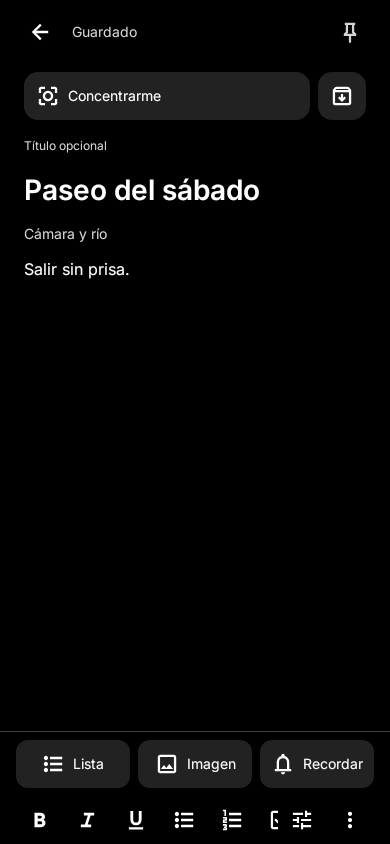
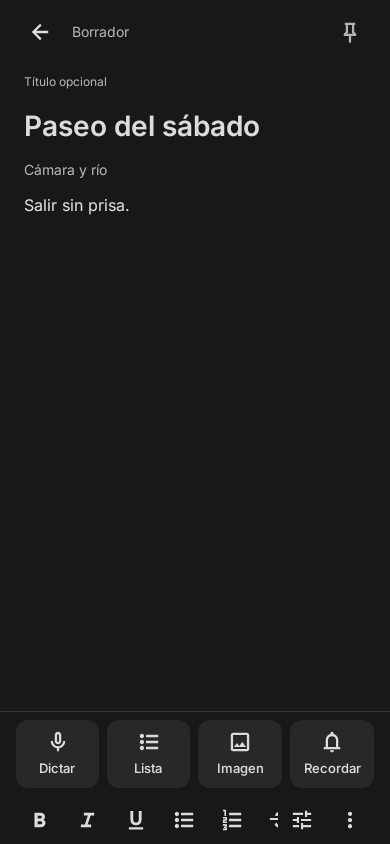
docs: update navigation editor and contrast guidance and previews

diff --git a/docs/guia-de-uso.md b/docs/guia-de-uso.md
@@ -13,12 +13,12 @@ Clean Mind permite guardar ideas y apuntes personales en Android. No necesitas u
 | Editor | Título, subtítulo opcional, cuerpo de la nota, estado de guardado y acciones. |
 | Ajustes | Selección de apariencia e información sobre almacenamiento y recordatorios. |
 
-El botón flotante **+** despliega seis acciones en dos arcos radiales: Inicio, Notas, Recordar, Buscar, Nueva nota y Nuevo aviso (nuevo recordatorio). El botón gira a **×** para cerrarlas; Volver también cierra el despliegue sin cambiar de pantalla. Un doble toque en la lupa abre Buscar con el campo enfocado para escribir. La cabecera se oculta al bajar y reaparece al llegar al inicio; el engranaje abre Ajustes.
+La barra inferior fija muestra **Inicio, Notas, Nueva nota, Recordar y Buscar**. Nueva nota abre el editor directamente; Buscar enfoca el campo de consulta. La barra se oculta mientras se escribe una búsqueda y vuelve al cerrar el teclado. Durante una selección múltiple, sus acciones quedan desactivadas hasta cancelar o completar la selección. La cabecera se oculta al bajar y reaparece al llegar al inicio; el cambio de vista está junto al engranaje de Ajustes. Una pluma estilográfica acompaña al nombre Clean Mind.
 
 ## Crear una nota
 
-1. Pulsa el botón flotante **+**.
-2. Elige **Nueva nota**.
+1. Pulsa **Nueva nota** en el centro de la barra inferior.
+2. Se abre directamente el editor.
 3. Escribe un título opcional; si lo dejas vacío, la app utiliza una primera línea legible al guardar.
 4. Añade un subtítulo opcional y el texto de la nota.
 5. Comprueba el estado de guardado en la cabecera o pulsa la flecha de volver, que guarda y cierra el editor.
@@ -55,7 +55,7 @@ La elección de vista pertenece al estado de cada pestaña. No hay un ajuste glo
 
 ## Crear un recordatorio
 
-1. Pulsa **+ → Nuevo aviso**.
+1. Abre **Recordar** y pulsa el **+** de la cabecera de la colección (**Nuevo recordatorio**).
 2. Escribe **¿Qué quieres recordar?**.
 3. Activa **Avisarme** y elige la fecha y la hora, o desactívalo para guardar un pendiente sin notificación.
 4. Añade un detalle opcional y pulsa **Guardar recordatorio**.
@@ -73,7 +73,7 @@ Pulsa la notificación para abrir su nota o **Posponer** (duración configurable
 
 ## Organizar en carpetas
 
-En **Notas** las carpetas aparecen en cuadrícula. El icono de carpeta con **+** abre **Gestionar carpetas**, donde puedes crearlas o renombrarlas. Selecciona una para consultar sus notas; el botón **+ → Nueva nota** utiliza esa carpeta. La pulsación larga de una nota ofrece **Mover a carpeta**. **Sin carpeta** reúne las notas sin asignación. Eliminar una carpeta conserva sus notas. Notas no muestra una barra de búsqueda; utiliza la pestaña **Buscar**. Estas carpetas son independientes del directorio de copias TXT de Ajustes. Consulta [Carpetas](carpetas.md).
+En **Notas** las carpetas aparecen en cuadrícula. El icono de carpeta con **+** abre **Gestionar carpetas**, donde puedes crearlas o renombrarlas. Selecciona una para consultar sus notas; el botón **Nueva nota** de la barra inferior utiliza esa carpeta. La pulsación larga de una nota ofrece **Mover a carpeta**. **Sin carpeta** reúne las notas sin asignación. Eliminar una carpeta conserva sus notas. Notas no muestra una barra de búsqueda; utiliza la pestaña **Buscar**. Estas carpetas son independientes del directorio de copias TXT de Ajustes. Consulta [Carpetas](carpetas.md).
 
 ## Buscar
 
@@ -127,7 +127,7 @@ El historial de pruebas físicas está en [Pruebas](pruebas.md). Consulta la rev
 
 ## Formato y fotografías
 
-La fila de formato permanece visible sobre el teclado. Mientras escribes se ocultan los tres accesos grandes de inserción; **Más opciones** conserva Añadir casilla, Imágenes y archivos y Recordatorio. Abrir el panel completo retira el teclado para mostrar sus controles sin perder la selección. Muestra negrita, cursiva, subrayado y listas; deslízala horizontalmente para acceder a las demás herramientas. **Más formato y espaciado** abre un único panel con tamaños H1–H6 y Normal, estilos, listas, alineación, sangría e interlineado y espacios. Los ajustes de espaciado afectan a toda la nota. Se mantiene el editor visual normal, con selección de texto y sin escribir sintaxis Markdown.
+La fila de formato permanece visible sobre el teclado. La fila **Dictar, Lista, Imagen y Recordar** conserva sus cuatro acciones mientras escribes, con iconos compactos sobre el teclado. Con texto grande se distribuye en dos filas para mantener las etiquetas completas. Abrir el panel completo retira el teclado para mostrar sus controles sin perder la selección. Muestra negrita, cursiva, subrayado y listas; deslízala horizontalmente para acceder a las demás herramientas. **Más formato y espaciado** abre un único panel con tamaños H1–H6 y Normal, estilos, listas, alineación, sangría e interlineado y espacios. Los ajustes de espaciado afectan a toda la nota. Se mantiene el editor visual normal, con selección de texto y sin escribir sintaxis Markdown.
 
 Cada casilla de la lista tiene una **×** a la derecha para eliminarla, esté vacía, escrita o marcada. El aviso **Casilla eliminada · Deshacer** permite recuperarla con su contenido, estado y posición. La eliminación no cambia el cuerpo ni el resto de la lista.
 
@@ -144,17 +144,17 @@ El estado de guardado se consulta en la cabecera; los errores también aparecen 
 
 Las notas que se hubieran guardado en Markdown se abren en el editor normal con texto y formato básico, sin mostrar código Markdown. Los destinos de enlaces se conservan visibles en el texto. Abrirlas no escribe cambios; una edición posterior guarda el documento normal, conservando adjuntos, casillas y metadatos.
 
-## Fijado, archivo y concentración
+## Fijado y listas
 
-La pulsación larga abre Compartir, Fijar a mano, Archivar y Eliminar. Las notas fijadas permanecen en su día de la agenda y también se encuentran con el filtro **Fijadas**. El filtro **Archivadas** permite abrir y restaurar notas archivadas. El aviso de archivo ofrece **Deshacer** después de confirmarse el cambio.
+La pulsación larga abre Seleccionar, Mover a carpeta, Compartir, Fijar a mano y Eliminar. Las notas fijadas permanecen en su día de la agenda y también se encuentran con el filtro **Fijadas**. Se retiran la concentración y la opción de archivar, incluido el filtro Archivadas. Las notas archivadas por versiones anteriores aparecen en las colecciones normales sin reescribir sus datos.
 
-En el editor, **Concentrarme** oculta las herramientas. La acción de cerrar concentración vuelve al editor sin perder el borrador. **Lista** añade una casilla editable; se conserva la continuación de viñetas/números de las listas de texto.
+**Lista** añade una casilla editable con su propia **×** para quitarla. Las casillas se gestionan desde esta acción y no desde el menú de formato. Se conservan viñetas y numeración en formato, incluida su continuación con Intro.
 
 Apariencia y carpeta de las notas vuelven a estar visibles directamente en Ajustes, sin desplegar una sección adicional.
 
 ## Dictado, archivos y enlaces
 
-El micrófono **Dictar por voz** de la cabecera abre el reconocimiento del sistema. El texto reconocido sustituye la selección del cuerpo o se inserta en el cursor, con espacios cuando hacen falta y disponible en Deshacer. Cancelar no modifica la nota. Requiere una aplicación compatible de reconocimiento instalada; su disponibilidad y uso de red dependen del servicio del dispositivo.
+El micrófono **Dictar** de la fila inferior abre el reconocimiento del sistema. El texto reconocido sustituye la selección del cuerpo o se inserta en el cursor, con espacios cuando hacen falta y disponible en Deshacer. Cancelar no modifica la nota. Requiere una aplicación compatible de reconocimiento instalada; su disponibilidad y uso de red dependen del servicio del dispositivo.
 
 **Imagen → Adjuntar archivo**, o **Más opciones → Imágenes y archivos**, abre el selector de documentos de Android. Se copian los archivos a almacenamiento privado, con un máximo de 25 MB por archivo. La nota muestra el nombre y tamaño; toca la fila para abrirlo con una app compatible o la **×** para quitarlo. Los nombres se incluyen en búsqueda y exportaciones TXT/PDF; esos formatos no empaquetan los archivos binarios. Quitar un adjunto no modifica su original.
 

diff --git a/docs/pruebas.md b/docs/pruebas.md
@@ -35,7 +35,7 @@ Los filtros mostrados corresponden a las clases presentes en el repositorio.
 | Clase | Casos | Comportamiento comprobado |
 | --- | --- | --- |
 | `EditNoteViewModelTest` | 14 | Autoguardados sobre la misma fila, salida inmediata, escritura lenta, fallos y reintento, guardado explícito de recordatorios, salida repetida, reversión del texto, título vacío, borrador restaurado, texto literal `Remember` y fallo de carga; creación de una nota en la carpeta seleccionada y nota de solo archivo, incluida retirada de su último adjunto. |
-| `NotesViewModelTest` | 10 | Filtros y búsqueda, reintento de carga, error de eliminación, detención de observación sin suscriptores y restauración de consulta/pestaña/carpeta, creación de carpetas, fallo/reintento de movimientos y borrado múltiple con error, reintento y bloqueo de envíos duplicados. |
+| `NotesViewModelTest` | 11 | Filtros y búsqueda, reintento de carga, error de eliminación, detención de observación sin suscriptores y restauración de consulta/pestaña/carpeta, creación de carpetas, fallo/reintento de movimientos y borrado múltiple con error, reintento y bloqueo de envíos duplicados; acceso a notas antiguas archivadas sin reescritura. |
 | `SettingsViewModelTest` | 1 | Conservación del tema persistido cuando falla una escritura y recuperación al reintentar. |
 | `NoteStorageTest` | 6 | Migración 2→4 con SQLite y operaciones de repositorio con IDs estables y orden de consulta; rollback entre bloques de borrado y cancelación de avisos seleccionados. |
 | `FolderStorageTest` | 3 | Migración 3→4 conservando todos los campos; creación/renombrado/borrado, movimientos y guardados obsoletos, duplicados con acentos, carpetas desaparecidas y separación de recordatorios. |
@@ -47,12 +47,12 @@ Los filtros mostrados corresponden a las clases presentes en el repositorio.
 | `MarkdownCompatibilityTest` | 5 | Documentos normales sin cambios, lectura de documentos Markdown como texto con formato conservando metadatos y destinos de enlaces, estilos/tablas/tareas anteriores, HTML literal y texto legible para buscar/compartir. |
 | `VoiceDictationTest` | 2 | Intent de reconocimiento, resultados cancelados/vacíos, inserción en selección y deshacer conservando adjuntos. |
 | `AttachmentsAndLinksTest` | 3 | Serialización, historial, copia privada independiente y validación de rutas, extracción de URLs y metadatos HTML. |
-| `ThemePaletteTest` | 2 | Contraste de acentos extremos en ambos modos y roles monocromos del tema Gris. |
+| `ThemePaletteTest` | 3 | Contraste de acentos extremos en ambos modos y roles monocromos del tema Gris y legibilidad de las paletas suavizadas. |
 | `ExampleUnitTest` | 1 | Prueba aritmética de ejemplo del proyecto; no valida funcionalidad de Clean Mind. |
 | `ReminderExportTest` | 5 | Repetición y serialización, programación/recuperación/cancelación de alarmas, TXT UTF-8 y paginación visual de exportación. |
-| `DesignUiTest` | 23 | Capturas locales, privacidad de previews, compartir con pulsación larga, búsqueda/cuadrícula, concentración, completado, ajustes, selección de fecha/hora y formulario independiente con confirmación al descartar y filtrado/movimiento de notas entre carpetas y exclusión de Volver en destinos ocultos, carpetas en cuadrícula y ausencia de búsqueda en Notas y botones del editor sin palabras partidas ni truncadas a 320 dp con fuente 1.35; ocultación al descender, permanencia oculta al invertir el scroll a mitad de la lista y reapertura al llegar al inicio, conservando los límites del contenido fuera de las barras; aplicación de una paleta y borrado múltiple confirmado en Home y recordatorios sin completar avisos. |
+| `DesignUiTest` | 23 | Capturas locales, privacidad de previews, compartir con pulsación larga, búsqueda/cuadrícula, herramientas inferiores del editor, completado, ajustes, selección de fecha/hora y formulario independiente con confirmación al descartar y filtrado/movimiento de notas entre carpetas y exclusión de Volver en destinos ocultos, carpetas en cuadrícula y ausencia de búsqueda en Notas y botones del editor sin palabras partidas ni truncadas a 320 dp con fuente 1.35; ocultación al descender, permanencia oculta al invertir el scroll a mitad de la lista y reapertura al llegar al inicio, conservando los límites del contenido fuera de las barras; aplicación de una paleta y borrado múltiple confirmado en Home y recordatorios sin completar avisos; navegación inferior de cinco acciones, creación contextual de avisos y ubicación del dictado, manteniendo Lista y retirando las casillas del formato. |
 
-Total actual: **96 pruebas locales**, de las cuales una es el ejemplo aritmético original. Esta cifra describe la suite actual y debe revisarse al añadir o retirar casos; no es un porcentaje de cobertura de código.
+Total actual: **98 pruebas locales**, de las cuales una es el ejemplo aritmético original. Esta cifra describe la suite actual y debe revisarse al añadir o retirar casos; no es un porcentaje de cobertura de código.
 
 Las pruebas de ViewModel usan `kotlinx-coroutines-test` para controlar la ejecución y el tiempo virtual. `FakeNoteRepository` permite simular lentitud, errores y cambios observables.
 
@@ -233,3 +233,15 @@ En el realme RMX3370, API 33, conectado por USB, se verificaron:
 El micrófono del editor está accesible y el dispositivo resuelve el Intent de reconocimiento de voz. Los resultados, cancelación e inserción se comprobaron en pruebas locales; no se grabó audio ambiente en esta revisión.
 
 Se eliminaron las notas, recordatorios, archivos privados y medios temporales de prueba y el APK instrumentado. La comparación final conserva idénticos todos los campos de las **12 notas originales y la carpeta**, incluida To Dos. El teléfono queda en Inicio y no aparecen crashes del paquete en el buffer conservado. Las capturas y copias privadas del dispositivo no se incorporan al repositorio.
+
+
+## Barras y editor simplificados · 28 de noviembre de 2026
+
+La revisión sustituye el FAB radial por navegación inferior Material 3 Expressive, retira la búsqueda de Home y mueve el cambio de vista a la cabecera. El dictado pasa a la fila inferior del editor; se conservan las casillas de Lista y se retiran del menú de formato. No quedan acciones de concentración ni archivo.
+
+Las **98 pruebas locales**, compilaciones debug/release y lint de ambas variantes finalizaron correctamente. La regresión de navegación comprueba objetivos sin solapamientos a 320 dp y escala 1.35; la de scroll vuelve a comprobar los límites superior e inferior del viewport. El caso de compatibilidad conserva accesibles las notas archivadas antiguas sin modificar sus datos. La paleta suavizada mantiene el contraste de texto/acciones comprobado por la suite.
+
+Los accesos y la referencia oficial están en [Barras, Home y editor](barras-y-editor.md).
+
+
+En el Xiaomi Redmi Note 8 Pro, API 36, conectado en esta revisión, se instalaron los cambios y se verificaron navegación, editor, listas, panel de formato, búsqueda, scroll, cambio de vista y ambos modos de apariencia. **Dos pruebas instrumentadas superadas**, incluida la del portapapeles nativo. Tras retirar la nota de prueba y su copia TXT, la comparación conserva idénticos los campos de las 9 notas y las 2 carpetas originales; DataStore y las preferencias de avisos coinciden con la copia inicial. El teléfono queda en Home y sin APK de pruebas, sin crashes del paquete en el buffer conservado. No se realizó una nueva prueba física en el realme en esta revisión.

diff --git a/docs/figma-ui.md b/docs/figma-ui.md
@@ -6,12 +6,11 @@ Referencia: [Clean Mind, archivo de Figma](https://www.figma.com/design/qokv6yTT
 
 ## Implementación
 
-- Inicio con búsqueda y cuadrícula adaptable, con opción de agenda vertical: separador horizontal y fecha completa, sin círculos ni etiquetas laterales y todas las notas creadas en ese día. No se limita a diez notas.
-- Cabecera opaca con ocultación al bajar y reapertura al llegar al inicio. Un FAB despliega la navegación y la creación desde el propio botón; doble toque en la lupa enfoca la búsqueda. Se mantienen colores y tipografía del estilo actual.
-- Filtros Todas, Fijadas, Con imágenes y Archivadas; vistas de lista y cuadrícula.
+- Inicio sin barra de búsqueda y con cuadrícula adaptable, con opción de agenda vertical: separador horizontal y fecha completa, sin círculos ni etiquetas laterales y todas las notas creadas en ese día. No se limita a diez notas.
+- Cabecera opaca con ocultación al bajar y reapertura al llegar al inicio. La navegación inferior ofrece Inicio, Notas, Nueva nota, Recordar y Buscar; Buscar enfoca el campo y el cambio de vista se encuentra junto a Ajustes. Se mantienen colores y tipografía del estilo actual.
+- Filtros Todas, Fijadas y Con imágenes; vistas de lista y cuadrícula.
 - Tarjetas de título, subtítulo y metadatos. Se mantiene la petición anterior de ocultar el cuerpo en Home: las vistas previas de la referencia reciben el subtítulo independiente, no una extracción del contenido.
-- Editor con guardado visible, fijado, archivo, deshacer archivo, captura de listas/imágenes y hoja de recordatorio. Las herramientas de formato, compartir y exportar permanecen disponibles.
-- Concentración sin herramientas inferiores; volver cierra este modo antes de abandonar la nota.
+- Editor con guardado visible, fijado, dictado en la fila inferior, captura de listas/imágenes y hoja de recordatorio. Las herramientas de formato, compartir y exportar permanecen disponibles.
 - Listas de casillas editables, con estado independiente por elemento, además de las listas de texto ya existentes.
 - Recordatorios con opciones rápidas Más tarde y Mañana, fecha/hora personalizadas, configuración avanzada, posposición y completado sin eliminar la nota. Una recurrencia completada avanza a la siguiente ocurrencia.
 - Ajustes anteriores recuperados: apariencia y carpeta de copias visibles directamente, información de la app y enlace a notificaciones de Android.
@@ -52,11 +51,11 @@ La familia Inter se distribuye localmente en cuatro pesos, generados a partir de
 
 `NoteDocument` añade `pinned`, `archived`, `reminderCompleted`, `checklist` y `createdAt` con valores predeterminados compatibles. No cambia el esquema Room. Las actualizaciones de metadatos se serializan y vuelven a leer la nota actual para no perder cambios concurrentes. Deshacer el cuerpo preserva estos metadatos. Las casillas se incluyen al buscar y exportar TXT/PDF.
 
-Una notificación puede pertenecer a una nota normal o a un recordatorio explícito. Al completar un aviso único se cancela su programación; al completar uno periódico se guarda y programa la siguiente ocurrencia. Las notas archivadas se consultan desde su filtro. Archivar no elimina adjuntos ni cancela automáticamente un aviso ya configurado.
+Una notificación puede pertenecer a una nota normal o a un recordatorio explícito. Al completar un aviso único se cancela su programación; al completar uno periódico se guarda y programa la siguiente ocurrencia. La revisión actual retira las opciones de archivo y concentración. Las notas archivadas antiguas aparecen en las colecciones normales, conservando el campo para compatibilidad.
 
 ## Verificación
 
-`DesignUiTest` utiliza Compose y Robolectric con gráficos nativos, sin teléfono ni emulador. Comprueba ocultación del cuerpo, pulsación larga, búsqueda/cuadrícula, entrada/salida de concentración, completar sin eliminar, ajustes y selección de fecha/hora. Las capturas se generan en `/tmp/cleanmind-ui-*.png`; una selección está en [ui-preview](ui-preview/).
+`DesignUiTest` utiliza Compose y Robolectric con gráficos nativos, sin teléfono ni emulador. Comprueba ocultación del cuerpo, pulsación larga, búsqueda/cuadrícula, navegación inferior y herramientas del editor, completar sin eliminar, ajustes y selección de fecha/hora. Las capturas se generan en `/tmp/cleanmind-ui-*.png`; una selección está en [ui-preview](ui-preview/).
 
 El recuento actualizado de la suite está en [Pruebas](pruebas.md). Además de los flujos comprobados anteriormente en Xiaomi, en el realme RMX3370 se verificaron cristal acelerado, carpetas, edición, imágenes de galería/cámara, portapapeles nativo, notificación en segundo plano y escritura SAF de TXT/PDF y copias automáticas. Consulta [Pruebas](pruebas.md) para el alcance y los casos pendientes.
 
@@ -91,3 +90,5 @@ Se restaura el editor normal y su formato visual. La compatibilidad de lectura c
 ## Formato conservado, casillas y FAB radial
 
 Se recuperan la fila visible de formato y el panel único, aplicados al editor normal. Cada casilla incorpora eliminación y deshacer. El FAB pasa a dos arcos radiales de tres acciones, con controles circulares y animación desde el centro del botón; conserva navegación, creación, cierre y doble toque de búsqueda. Estas adaptaciones son posteriores a la referencia Figma.
+
+La revisión actual de [barras y editor](barras-y-editor.md) sustituye el FAB radial y elimina archivo y concentración. Sus capturas sintéticas se han actualizado.

diff --git a/docs/barras-y-editor.md b/docs/barras-y-editor.md
@@ -1,0 +1,31 @@
+# Barras, Home y editor
+
+La revisión simplifica el cuaderno y utiliza la [navegación flexible de Material 3 Expressive](https://developer.android.com/develop/ui/compose/components/navigation-bar), disponible en la versión de Compose del proyecto.
+
+## Navegación y Home
+
+- Barra inferior acoplada al borde, con Inicio, Notas, Nueva nota, Recordar y Buscar. Los cuatro destinos muestran su selección; Nueva nota es una acción y abre el editor directamente.
+- Buscar enfoca el campo al entrar. La barra se oculta con el teclado de búsqueda y reaparece al cerrarlo.
+- Nuevo recordatorio queda en el **+** de la cabecera de Recordar, también cuando hay avisos en la colección.
+- La Home conserva fechas y agrupación por creación, sin barra de búsqueda. El cambio entre cuadrícula y agenda está junto a Ajustes. En Notas y Buscar, el mismo lugar cambia lista/cuadrícula.
+- Una pluma estilográfica Material Symbols acompaña a Clean Mind. Se conserva el peso 500 de los iconos.
+- La cabecera mantiene su comportamiento de ocultarse al descender y reaparecer al llegar al inicio. Scaffold reserva el espacio de ambas barras.
+
+## Editor
+
+La fila inferior ofrece **Dictar, Lista, Imagen y Recordar**. Con teclado usa iconos compactos y con texto grande puede distribuirse en dos filas para evitar recortes.
+
+Las casillas se crean con Lista, mantienen su edición, borrado y Deshacer. Se retiran los accesos de casilla en la fila de formato y en su panel; las viñetas, números, estilos y espaciado permanecen disponibles.
+
+Se eliminan concentración y archivo del editor y el menú de las notas. Las notas archivadas anteriormente se muestran en las colecciones habituales sin reescribir el documento. El campo antiguo se conserva por compatibilidad.
+
+## Contraste
+
+La paleta usa fondos carbón y blanco roto, texto gris y contornos más suaves. El acento sigue las preferencias de apariencia. Original oscuro utiliza `#181818`, superficies `#202020` y texto `#DCDCDC`; claro utiliza `#F0F0F0`, superficies `#F6F6F6` y texto `#3C3C3C`. El tema Gris continúa siendo monocromo. Se comprueba la legibilidad de texto y acciones en todas las paletas incorporadas, además de los acentos personalizados.
+
+## Verificación
+
+Compilaciones debug/release, lint de ambas variantes y **98 pruebas locales** correctas, sin fallos ni omisiones. La suite conserva las regresiones del editor, casillas, metadatos, almacenamiento y selección múltiple. Incluye navegación de cinco acciones a 320 dp con texto grande, ausencia de solapamientos, búsqueda con foco, colocación de cambio de vista junto a Ajustes y acceso a notas archivadas antiguas.
+
+
+La comprobación física se realizó en el Xiaomi Redmi Note 8 Pro conectado, Android API 36. Se verificaron los cinco accesos, creación contextual de aviso, cambio de vista en Home/Notas, ausencia de búsqueda en Home, dictado inferior con teclado, creación y persistencia de una casilla desde Lista, ausencia de casillas en formato y de archivo en el menú, búsqueda con foco y filtrado, navegación durante scroll y ambas apariencias. Las dos pruebas instrumentadas también pasaron. El modo previo Como el dispositivo se restauró. Se eliminó la nota temporal y su copia TXT y se compararon todos los campos de las 9 notas originales y las 2 carpetas. Las capturas del repositorio son sintéticas; las del dispositivo se mantienen fuera del repositorio.

diff --git a/docs/glass-ui.md b/docs/glass-ui.md
@@ -2,7 +2,7 @@
 
 La revisión del 25 de noviembre de 2026 adopta la alternativa Material 3 solicitada por el usuario. Sustituye el acabado de cristal anterior: se retiran Haze, la captura de fondos, los reflejos, el ruido y los degradados decorativos. Las superficies no se presentan como una reproducción del material de iOS.
 
-`AppSurfaces.kt` centraliza los contenedores tonales y las hojas inferiores. El tema oscuro utiliza un fondo uniforme `#000000`, texto principal blanco y texto secundario gris claro. El tema claro conserva sus superficies claras y texto oscuro. Los estados seleccionados mantienen el acento azul acero.
+`AppSurfaces.kt` centraliza los contenedores tonales y las hojas inferiores. El tema oscuro Original utiliza fondo carbón `#181818`, superficies `#202020`, texto principal `#DCDCDC` y secundario `#B3B3B3`. El tema claro utiliza fondo `#F0F0F0`, superficies `#F6F6F6` y texto principal `#3C3C3C`. La revisión actual suaviza la separación entre superficies y contornos manteniendo legibilidad. Los estados seleccionados mantienen el acento azul acero.
 
 Las tarjetas emplean `surfaceContainerLow`, las barras inferiores `surfaceContainer` y los estados seleccionados `tertiaryContainer`. Los límites usan los roles de contorno del tema. Los colores se resuelven como superficies Material 3 y no como transparencias que varíen el contraste del texto según el contenido situado detrás.
 
@@ -10,7 +10,7 @@ Las cabeceras conservan el fondo opaco del tema para impedir superposiciones. En
 
 El contenido del cuaderno aplica el padding medido por `Scaffold` y consume esos insets antes de componer listas, cuadrículas y recordatorios. Ese espacio se adapta a la altura visible de la cabecera y mantiene el viewport fuera de las barras. La franja de estado continúa protegida por el color del tema. La fecha de cada grupo conserva su semántica de encabezado y utiliza 16 sp y peso seminegrita.
 
-La navegación se concentra ahora en `NotebookFab`: un botón flotante Material 3 despliega sus acciones en dos arcos radiales alrededor del propio botón, sin abrir una hoja. No hay barra inferior en la libreta. Las listas reservan 96 dp al final para mantener las últimas tarjetas fuera del botón; el editor conserva sus herramientas inferiores.
+`NotebookBottomBar` utiliza `ShortNavigationBar` de Material 3 Expressive, con cuatro destinos y una acción central de creación. Queda acoplada al borde inferior y pinta sus insets de navegación. Los cuatro destinos usan iconos arriba en ventanas compactas y al inicio de la etiqueta en ventanas de al menos 600 dp. Las listas reservan el espacio real de la barra mediante Scaffold, con 24 dp finales de separación. El editor mantiene sus herramientas propias.
 
 Todas las hojas inferiores de la app pasan por `AppBottomSheet`. El propio `ModalBottomSheet` pinta su contenedor, incluida la separación de navegación del sistema. Así no queda una franja transparente que deje ver la barra de la app por debajo. Se conserva el manejo de insets de Material 3 y se desactiva el scrim adicional de contraste de navegación en la ventana de la hoja desde API 29.
 

diff --git a/README.md b/README.md
@@ -12,12 +12,12 @@ La interfaz está construida con Jetpack Compose y Material 3. La arquitectura u
 - Guardar automáticamente mientras escribes y mostrar el estado de guardado.
 - Eliminar casillas y recuperarlas con Deshacer; herramientas visibles y un panel único de formato.
 - Consultar la actividad por fecha o cambiar a una cuadrícula adaptable.
-- Navegar y crear desde las opciones radiales del FAB; doble toque en la lupa para buscar directamente por título y contenido.
+- Navegar con la barra inferior Inicio, Notas, Nueva nota, Recordar y Buscar; búsqueda con foco directo y cambio de vista junto a Ajustes.
 - Organizar notas en [carpetas](docs/carpetas.md) en cuadrícula, con creación, renombrado y movimiento.
 - Crear recordatorios con formulario propio de tarea, fecha y hora y guardado explícito.
 - Compartir texto mediante el selector de aplicaciones de Android.
 - Elegir modo claro, oscuro o del dispositivo, paletas de acento, un tema Gris o temas personalizados.
-- Arranque monocromo, [superficies Material 3](docs/glass-ui.md) y transiciones breves entre pantallas, pestañas y herramientas.
+- Arranque monocromo, [superficies Material 3 de contraste suave](docs/glass-ui.md) y transiciones breves entre pantallas, pestañas y herramientas.
 - Conservar el tema y restaurar determinados estados de navegación y edición.
 
 Los recordatorios permiten notificaciones configurables, repetición y posposición. Se pueden guardar y compartir TXT/PDF y mantener copias TXT en una carpeta elegida. La app no incluye cuentas, sincronización propia, restauración de copias completas ni papelera. Consulta los detalles en la [guía de uso](docs/guia-de-uso.md).
@@ -76,10 +76,12 @@ Se ha revisado la app en un Xiaomi Redmi Note 8 Pro con Android API 36: creació
 
 ## Rama de UI de Figma
 
-`feat/figma-complete-ui` implementa el nuevo flujo de Inicio, Notas, Recordatorios, editor y concentración. Consulta [implementación, capturas y límites de fidelidad](docs/figma-ui.md).
+`feat/figma-complete-ui` implementa el nuevo flujo de Inicio, Notas, Recordatorios, editor. Consulta [implementación, capturas y límites de fidelidad](docs/figma-ui.md).
 
 Los últimos ajustes de marca, agenda, iconos, formato y recordatorios están descritos en [Cambios de Clean Mind](docs/cambios-clean-mind.md).
 
 La variante debug incluye [seis notas científicas breves](docs/ciencia-breve.md), que se incorporan una sola vez sin sobrescribir contenido. Release no instala muestras. La revisión se verificó localmente y en un realme RMX3370 tras recuperar la conexión USB; consulta los [resultados de pruebas](docs/pruebas.md).
 
 La revisión de la nota del dispositivo está descrita en [To Dos · 28 de noviembre](docs/to-dos-28-noviembre.md). Se implementan sus puntos 2–8; la biometría queda excluida por indicación del usuario.
+
+La revisión de [barras, Home y editor](docs/barras-y-editor.md) restaura la navegación inferior Material 3 Expressive, mueve el dictado y retira concentración y archivo.

diff --git a/docs/arquitectura.md b/docs/arquitectura.md
@@ -190,7 +190,7 @@ La pantalla vuelve al editor normal con `RichNoteEditor` y `EditorToolbar`. `Ric
 
 `MarkdownText` y `MarkdownRendering` permanecen únicamente como lectores para búsqueda, exportación y compatibilidad. No hay edición de sintaxis, vista previa ni comandos Markdown en la interfaz. Se retiró `MarkdownEditing`. El esquema Room continúa en versión 4.
 
-`NotebookFab` presenta dos arcos radiales concéntricos de tres acciones a 108 y 216 dp del centro del botón. Los objetivos táctiles circulares de 72 dp quedan separados incluso a 320 dp de ancho. La expansión anima la distancia, la escala y la opacidad; el botón permanece anclado. Volver cierra el menú antes de navegar. `HomeAgenda` conserva sus celdas adaptables de 128 dp y los estados independientes de cuadrícula y agenda.
+`NotebookBottomBar` presenta Inicio, Notas, Nueva nota, Recordar y Buscar. Usa `ShortNavigationBar` y elementos seleccionables para los cuatro destinos; la creación central conserva semántica de botón. El estado de pestaña sigue perteneciendo a NotesViewModel. Buscar solicita foco con un contador de petición; la creación de recordatorios está en la cabecera de su colección. `HomeAgenda` conserva sus celdas adaptables de 128 dp y estados separados de cuadrícula y agenda. El control de vista se compone en `CustomTopBar`, junto a Ajustes. Se retira NotebookFab.
 
 `EditNoteScreen` permite eliminar casillas por identificador. El aviso de deshacer reinserta la misma casilla en su posición, conservando las modificaciones posteriores de las demás. Un nuevo borrado sustituye el aviso anterior. Las operaciones siguen el evento de contenido y el autoguardado habitual del ViewModel.
 
@@ -205,3 +205,10 @@ La barra inferior del editor consume la unión de insets de teclado y navegació
 La selección visual se conserva con `rememberSaveable`; `NoteDeletion` expone ocupado/error/revisión desde el ViewModel. El DAO borra en una transacción y el repositorio cancela los avisos por ID. La revisión solo avanza tras éxito, cerrando la confirmación y vaciando la selección. `visibleNotes` comparte el filtro entre tarjetas y Seleccionar visibles.
 
 El efecto de pulsación de `DesignNoteCard` se dibuja dentro de Surface, que recorta su contenido al contorno redondeado. El escalado breve permanece fuera de esa interacción.
+
+
+## Simplificación de editor y archivo
+
+La fila inferior incorpora Dictar, Lista, Imagen y Recordar; con IME abierto usa iconos compactos y con fuente grande permite dos filas. El menú de formato mantiene estilos, viñetas, números y espaciado, sin insertar casillas. El editor ya no conserva un modo de concentración ni expone acciones de archivo.
+
+`NoteDocument.archived` permanece únicamente por compatibilidad de serialización e historial. Las colecciones no lo utilizan para ocultar notas y no se reescriben documentos al retirar la función. `visibleNotes` sigue siendo la proyección compartida entre tarjetas y selección múltiple.

diff --git a/docs/datos-y-migraciones.md b/docs/datos-y-migraciones.md
@@ -167,3 +167,6 @@ DataStore añade `palette` (ID seleccionado) y `custom_palettes` (JSON de `Custo
 `cacheDir/link_previews` contiene metadatos de hasta cinco URLs por nota: caducan después de un día si se resolvieron y cinco minutos si fallaron. Cada solicitud limita respuesta, tiempo y redirecciones. Esta caché no es una fuente de verdad y el sistema puede eliminarla.
 
 El borrado múltiple divide los IDs en bloques de 900 dentro de una sola transacción Room. Un fallo en cualquier bloque revierte todos; después de confirmar la transacción se cancelan las alarmas y notificaciones seleccionadas. Los archivos privados sin referencia aún no tienen recolección automática.
+
+
+La revisión posterior de barras y editor retira el archivo de la interfaz. `archived` sigue leyéndose para conservar los documentos anteriores, pero deja de filtrar las colecciones. No requiere migración ni modificación de filas existentes.

diff --git a/docs/movimiento.md b/docs/movimiento.md
@@ -8,7 +8,7 @@
 - Lista/cuadrícula y recordatorios: aparición, retirada y reordenación con claves estables y `animateItem`.
 - Agenda y estados vacíos: ajuste animado de tamaño.
 - Tarjetas: respuesta de pulsación sutil, manteniendo ripple y pulsación larga.
-- Concentración y herramientas de formato: expansión/contracción sin reemplazar el editor de texto ni su historial.
+- Herramientas de formato: apertura y cierre del panel sin reemplazar el editor de texto ni su historial. La concentración se ha retirado.
 - Formulario de recordatorio: fecha y hora aparecen dentro del formulario al activar Avisarme.
 - Hojas inferiores, chips y controles: mantienen las transiciones nativas de Material 3. Los diálogos de fecha/hora pertenecen a Android.
 

diff --git a/docs/to-dos-28-noviembre.md b/docs/to-dos-28-noviembre.md
@@ -22,3 +22,5 @@ Las vistas previas de enlaces dependen de conexión y metadatos publicados por c
 
 
 En el realme se verificaron los temas, la barra sobre el teclado, formato persistido, archivo privado, fotografía completa, metadatos HTTPS y borrado múltiple de notas y recordatorios con cancelación de avisos. Las dos pruebas instrumentadas también finalizaron correctamente. Se retiraron los datos de prueba y la comparación conserva idénticas las 12 notas originales y la carpeta. [Resultados y límites de la revisión](pruebas.md#to-dos--28-de-noviembre-de-2026).
+
+La revisión posterior de [barras y editor](barras-y-editor.md) mueve el dictado a la fila inferior, restaura la navegación fija y retira archivo y concentración.

diff --git a/docs/README.md b/docs/README.md
@@ -22,6 +22,8 @@ Consulta [Superficies y contraste Material 3](glass-ui.md) para el material comp
 
 Consulta [To Dos · 28 de noviembre](to-dos-28-noviembre.md) para dictado, temas, adjuntos, enlaces y selección múltiple.
 
+Consulta [Barras, Home y editor](barras-y-editor.md) para la revisión actual de navegación y contraste.
+
 ## Fuentes de verdad
 
 | Información | Fuente |
